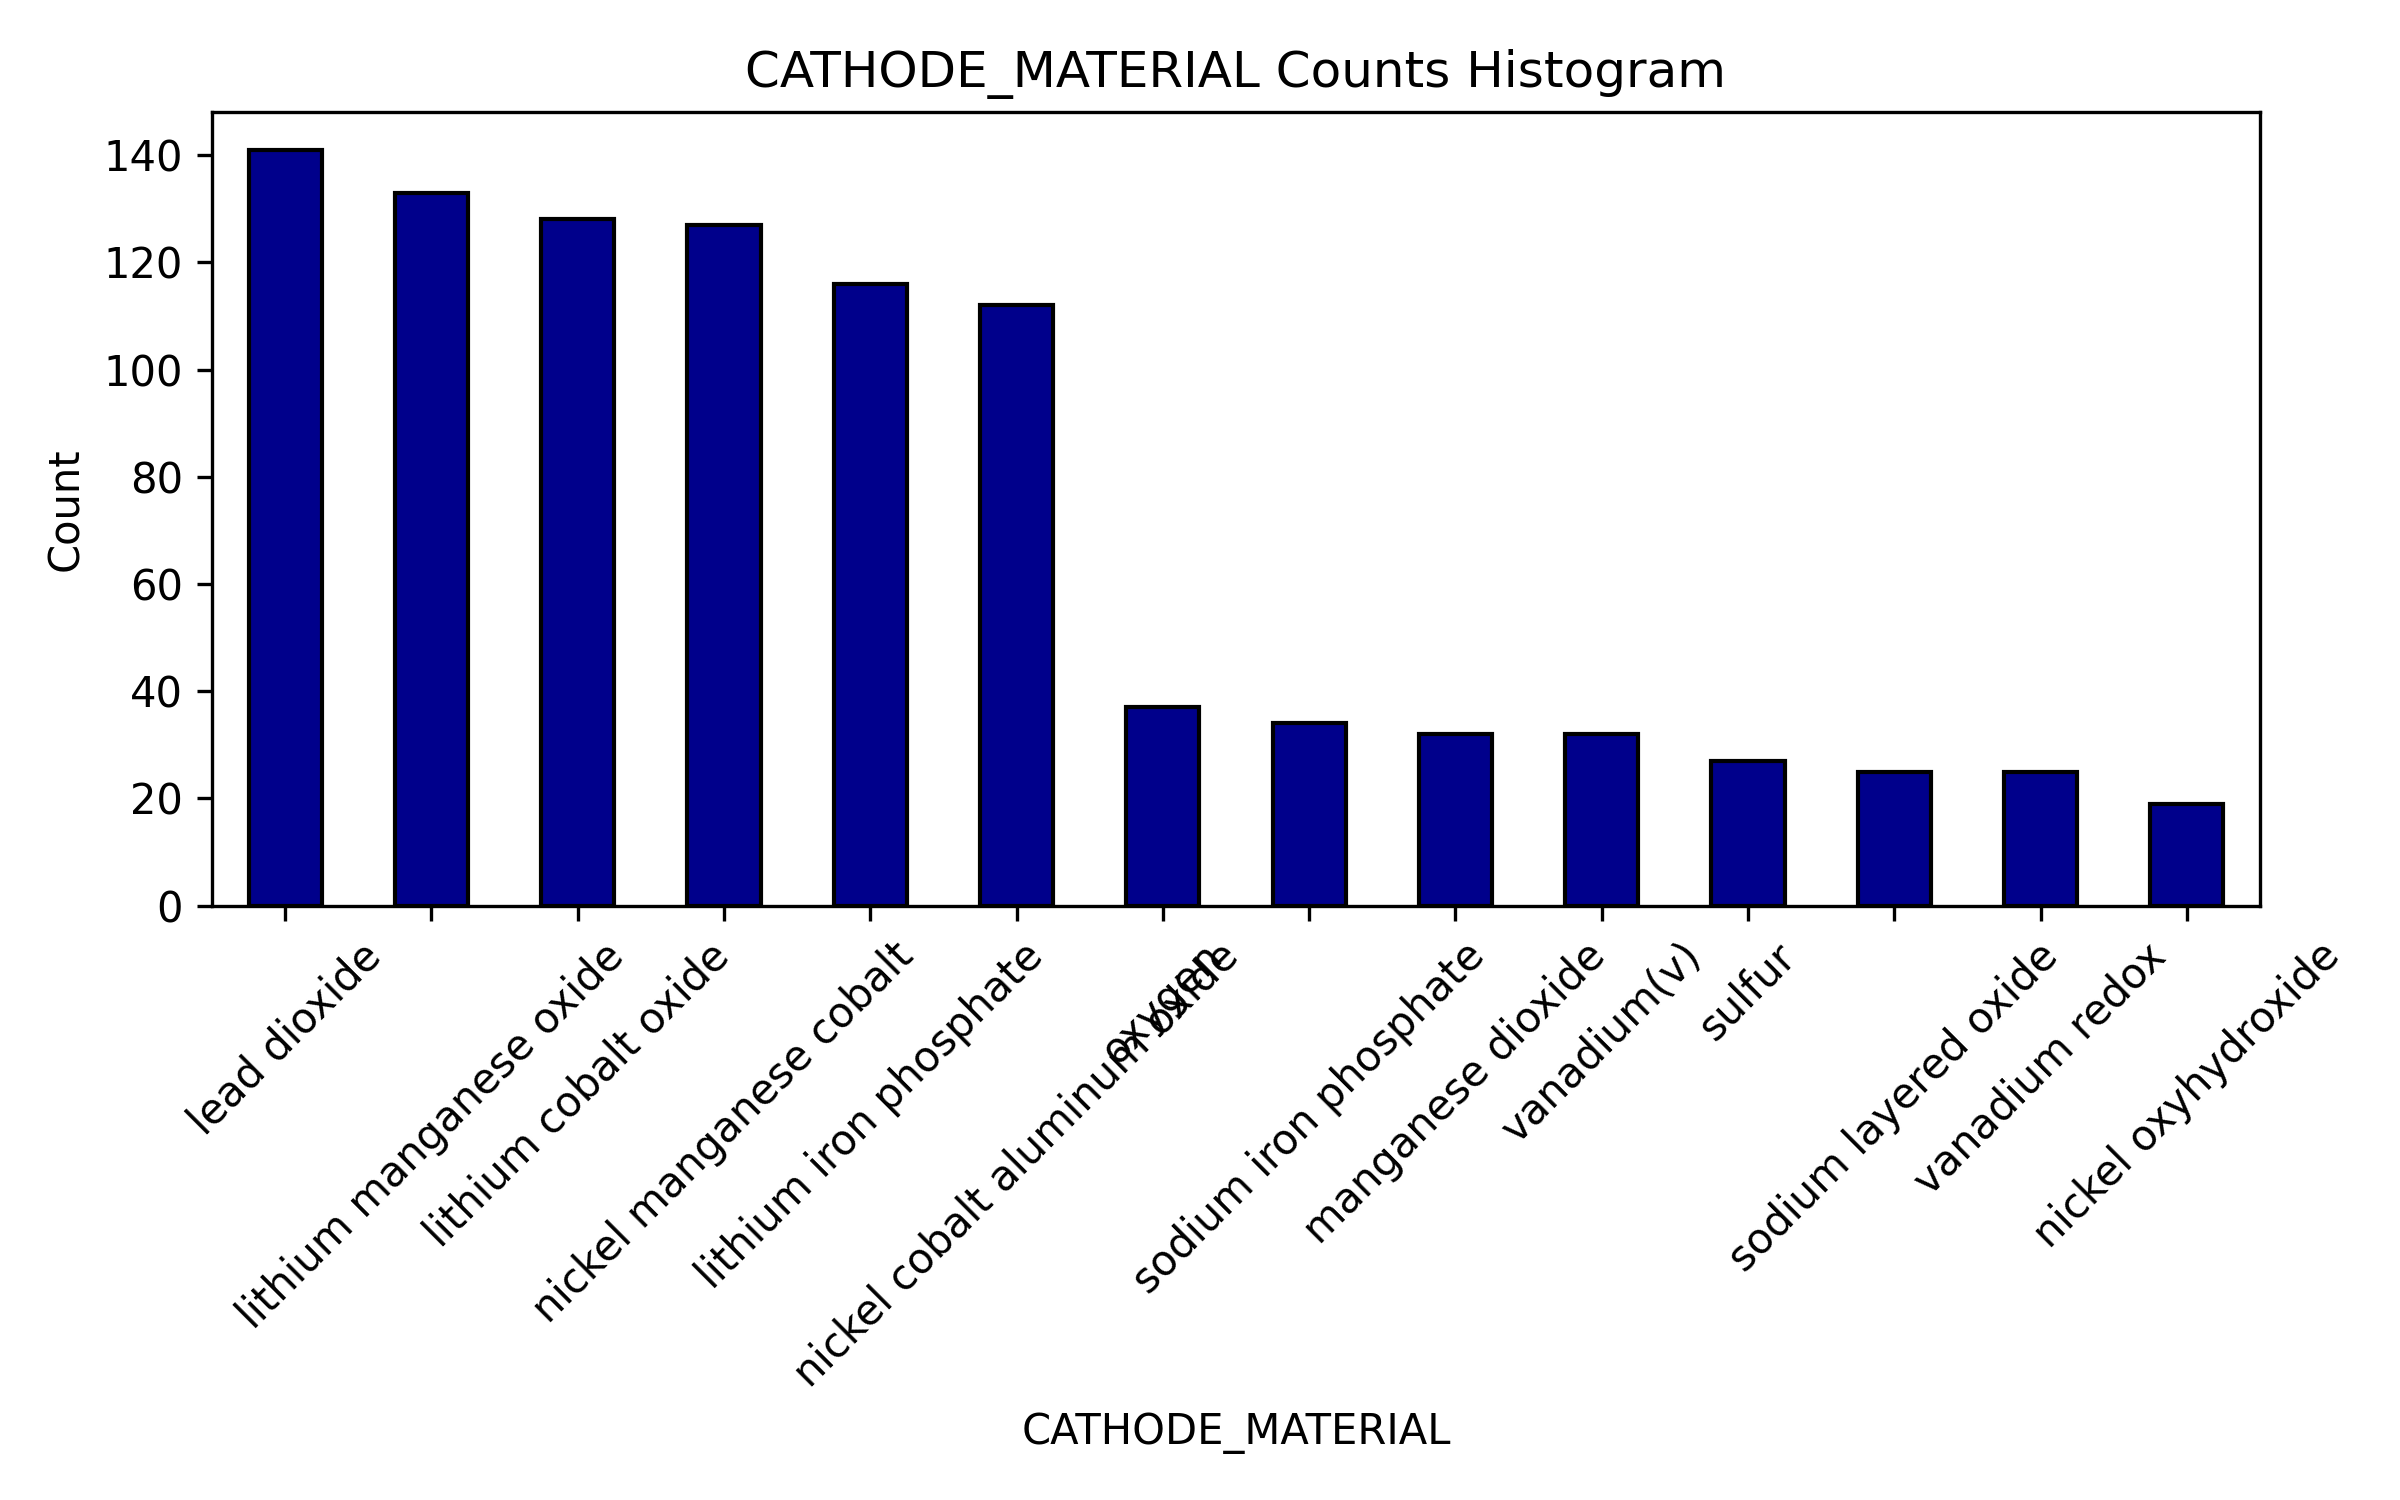
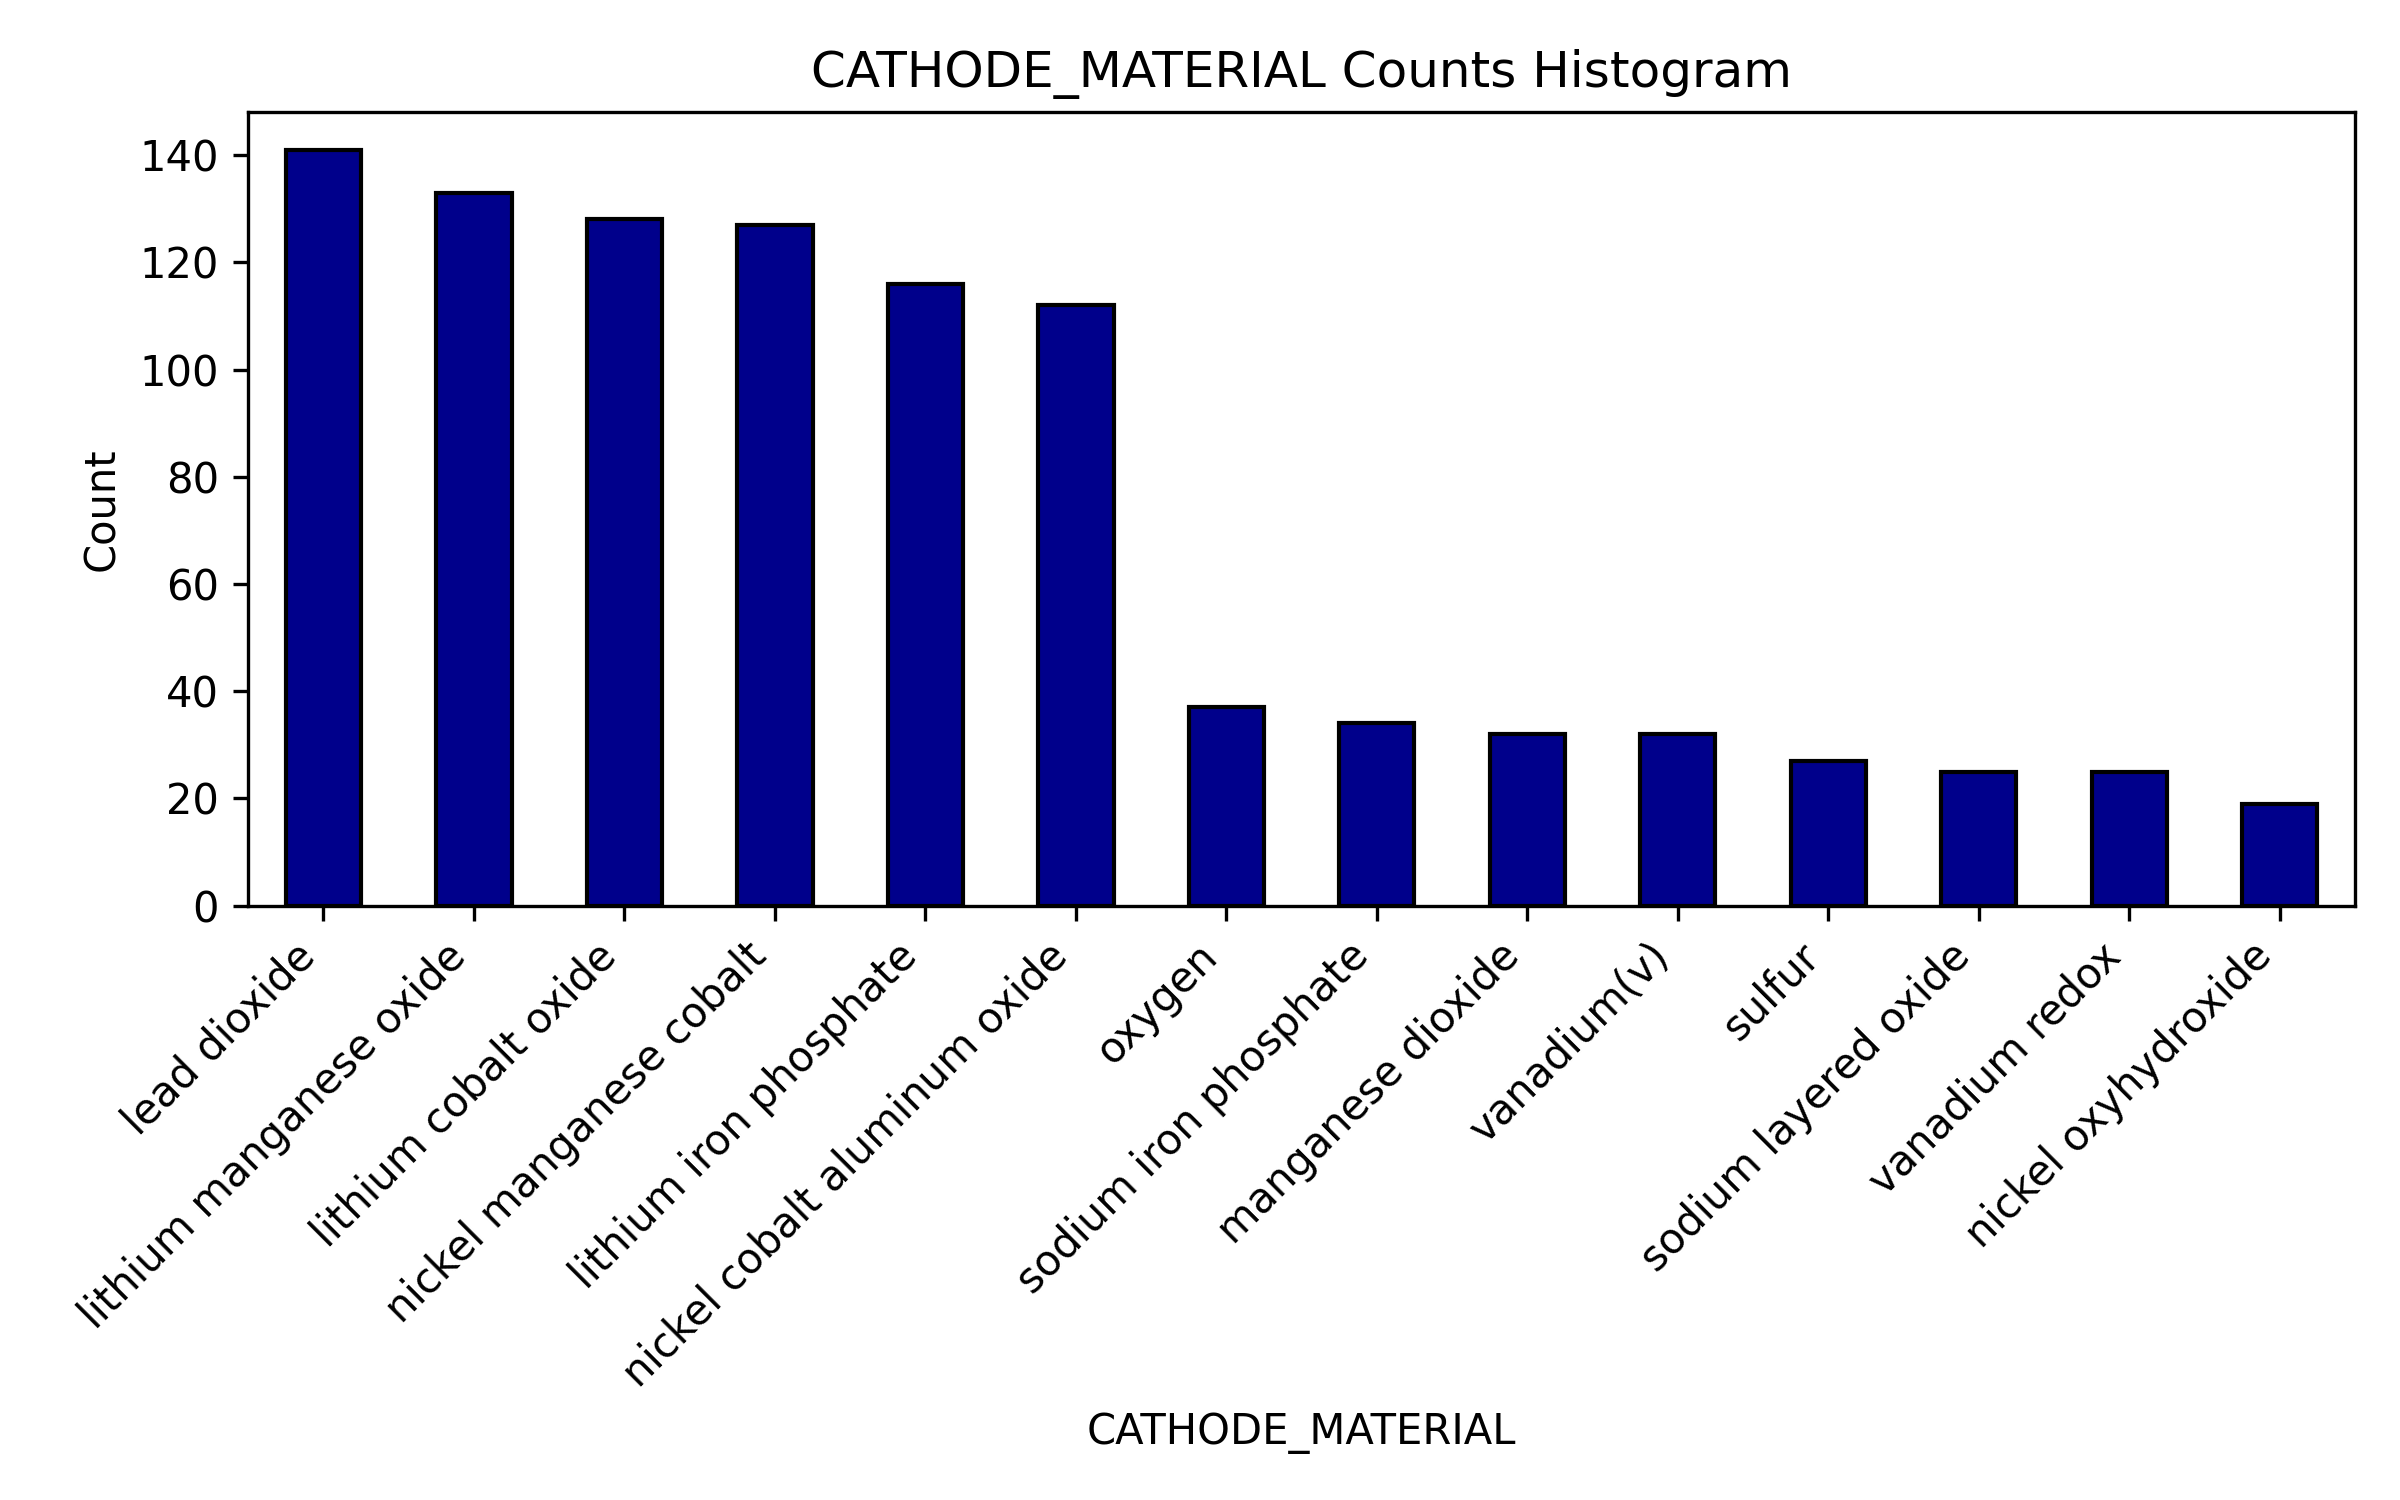
update data

diff --git a/src/utils.py b/src/utils.py
@@ -45,14 +45,14 @@ def plot_histogram(df, path, title="CATHODE_MATERIAL Counts Histogram"):
     """
     # Count values including NaN
     value_counts = df.value_counts(dropna=False)
-
+    print(value_counts)
     # Create the plot
     plt.figure(figsize=(8, 5))
     value_counts.plot(kind='bar', color="darkblue", edgecolor='black')
     plt.title(title)
     plt.ylabel('Count')
     plt.xlabel(df.name if df.name else 'Value')
-    plt.xticks(rotation=45)
+    plt.xticks(rotation=45, ha="right")  # rotate and right-align
     plt.tight_layout()
     plt.savefig(path, dpi=300)
     plt.close()

diff --git a/README.md b/README.md
@@ -59,6 +59,8 @@ The pipeline uses the `PART_DESCRIPTION` field of the dataset to derive embeddin
    - Cosine similarity is calculated across all pairs of material vectors in the `material_matrix`.  
    - A high similarity score indicates that two materials share similar descriptive language in `PART_DESCRIPTION`.
 
+Figure 2 depicts the TF-IDF approach for identifying alternative battery electrode materials. 
+
 ### Output
 
 - The code prints the **top 5 most similar materials** for each material in the terminal.
